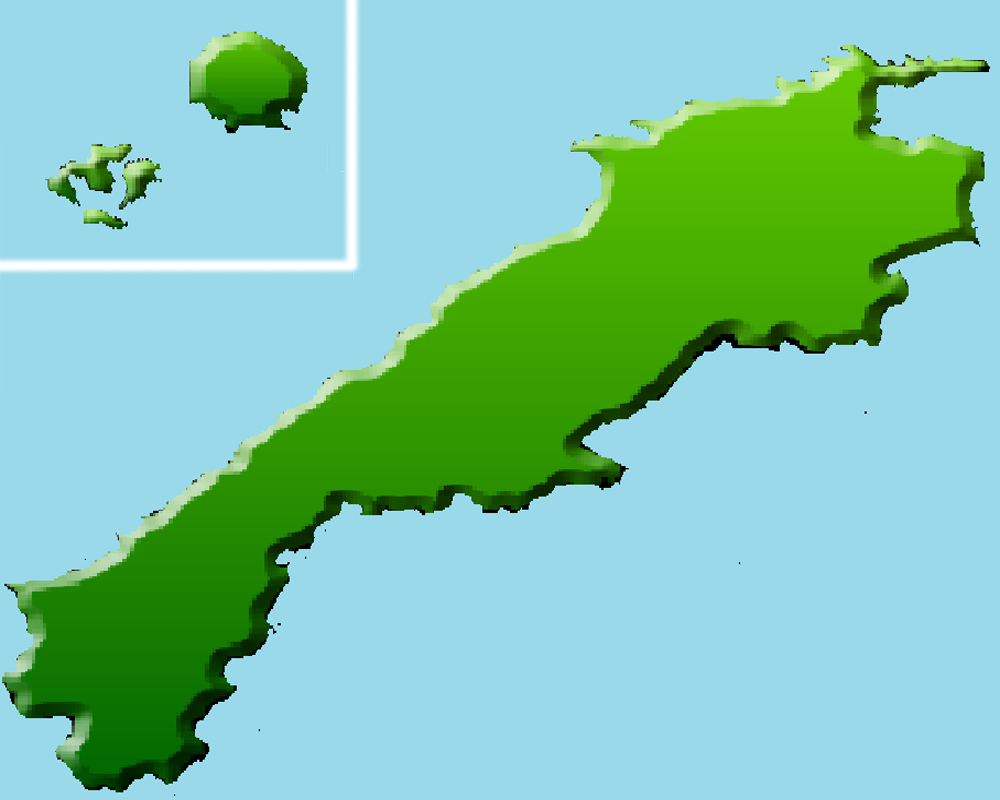
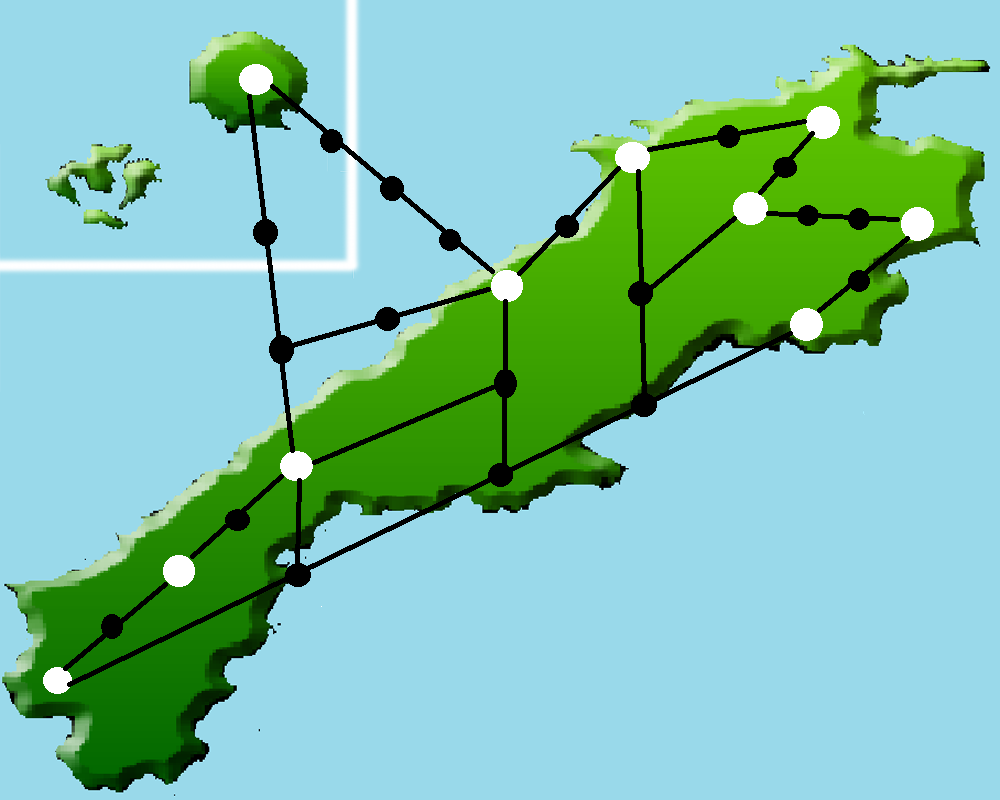
Update

diff --git a/scenes/game/map.rb b/scenes/game/map.rb
@@ -10,20 +10,35 @@ class Map
     map_file = File.join(File.dirname(__FILE__), "..", "..", "images", "map.png")
     @map_img = Image.load(map_file)
     @points = []
-    @points << Point.new(940   , 46, "point.png")
-    @points << Point.new(842   , 58, "point.png")
-    @points << Point.new(641   , 121, "point.png")
-    @points << Point.new(235   , 65, "point.png", event: Event.new)
-    @points << Point.new(440   , 309, "point.png")
-    @points << Point.new(182   , 461, "point.png")
-    @points << Point.new(49   , 584, "point.png")
-    @points << Point.new(135   , 697, "point.png")
-    @points << Point.new(272   , 552, "point.png")
-    @points << Point.new(427   , 456, "point.png")
-    @points << Point.new(607   , 377, "point.png")
-		@points << Point.new(678   , 315, "point.png")
-		@points << Point.new(828   , 275, "point.png")
-    @points << Point.new(934   , 207, "point.png", image: false)
+    @points << Point.new(243, 65, "point.png", event: Event.new("matsuejo.png"))
+    @points << Point.new(321, 125, "point.png")
+    @points << Point.new(382, 166, "point.png")
+    @points << Point.new(442, 217, "point.png")
+    @points << Point.new(492, 262, "point.png")
+    @points << Point.new(559, 210, "point.png")
+    @points << Point.new(620, 144, "point.png", event: Event.new("matsuejo.png"))
+    @points << Point.new(721, 124, "point.png")
+    @points << Point.new(810, 109, "point.png", event: Event.new("matsuejo.png"))
+    @points << Point.new(772, 152, "point.png")
+    @points << Point.new(738, 192, "point.png", event: Event.new("matsuejo.png"))
+		@points << Point.new(804, 195, "point.png")
+		@points << Point.new(854, 199, "point.png")
+		@points << Point.new(908, 200, "point.png", event: Event.new("matsuejo.png"))
+		@points << Point.new(850, 259, "point.png")
+		@points << Point.new(792, 302, "point.png", event: Event.new("matsuejo.png"))
+		@points << Point.new(639, 379, "point.png")
+		@points << Point.new(635, 274, "point.png")
+		@points << Point.new(496, 448, "point.png")
+		@points << Point.new(286, 545, "point.png")
+		@points << Point.new(43, 641, "point.png", event: Event.new("matsuejo.png"))
+		@points << Point.new(104, 588, "point.png")
+		@points << Point.new(161, 537, "point.png", event: Event.new("matsuejo.png"))
+		@points << Point.new(223, 481, "point.png")
+		@points << Point.new(280, 442, "point.png", event: Event.new("matsuejo.png"))
+		@points << Point.new(495, 363, "point.png")
+		@points << Point.new(273, 329, "point.png")
+		@points << Point.new(382, 297, "point.png")
+    @points << Point.new(259, 213, "point.png", image: false)
   end
 
   def get_point_pos(pos)

diff --git a/scenes/game/player.rb b/scenes/game/player.rb
@@ -14,8 +14,10 @@ class Player
   def move(counter)
     @pos += @step
     @x, @y = @map.get_point_pos(@pos.to_i)
-    if @pos.to_i == @map.points.size - 1
-      Scene.set_scene(:ending)
+    if @pos.to_i == @map.points.size - 1 #13
+			#pos = @pos.to_i % (@map.points.size -1)
+			
+      #Scene.set_scene(:ending)
     end
     return counter - @step.abs
   end

diff --git a/scenes/game/event.rb b/scenes/game/event.rb
@@ -2,8 +2,8 @@
 require 'dxruby'
 
 class Event
-  def initialize
-		explanation_file = File.join(File.dirname(__FILE__), "..","..", "images", "dice1.png")
+  def initialize event_pict
+		explanation_file = File.join(File.dirname(__FILE__), "..","..", "event_picture", event_pict)
     @explanation_img = Image.load(explanation_file)
   end
 
